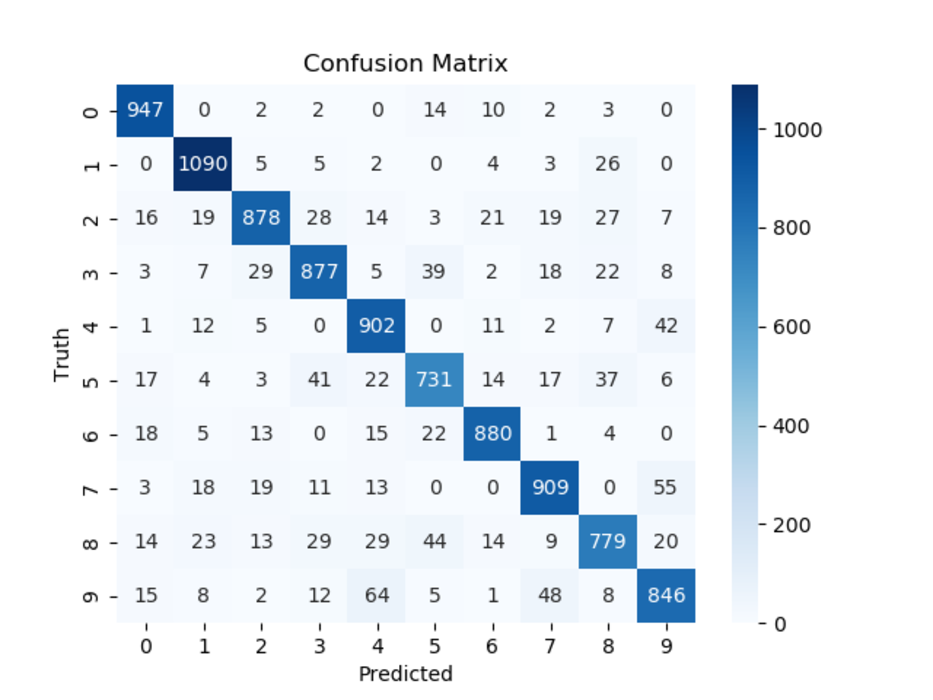
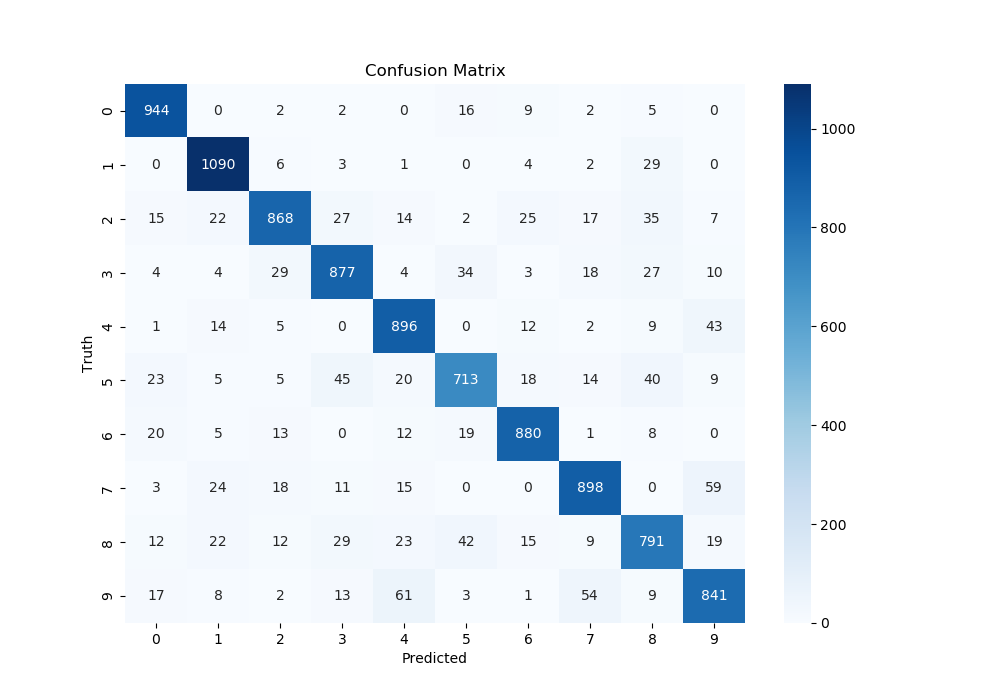
updated reults and code

diff --git a/Code/main.py b/Code/main.py
@@ -13,13 +13,13 @@ from sklearn.discriminant_analysis import LinearDiscriminantAnalysis
 def main():
     parse = argparse.ArgumentParser()
     parse.add_argument(
-        '--Method', default='LG',
+        '--Method', default='LR',
         help='classifiers')
     parse.add_argument(
-        '--DimRed', default='PCA',
+        '--DimRed', default='LDA',
         help='Dimensionality Reduction for SVM and Logistic Regression')
     parse.add_argument(
-        '--Kernel', default='Linear',
+        '--Kernel', default='RBF',
         help='kernel for Kernel SVM')
     args = parse.parse_args()
     method = args.Method
@@ -79,7 +79,7 @@ def main():
         svm = SVM(X_train, train_y, X_test, y_test, kernel)
         svm.svm()
         svm.plot()
-    elif method == "LG":
+    elif method == "LR":
         X_train = X_train.reshape(
             (X_train.shape[0],
              X_train.shape[1] *
@@ -102,7 +102,7 @@ def main():
             lda = LinearDiscriminantAnalysis(n_components=9)
             X_train = lda.fit_transform(X_train, train_y)
             X_test = lda.transform(X_test)
-        LR = LogisticRegression(10, l_r=0.9, epochs=100)
+        LR = LogisticRegression(10, l_r=0.9, epochs=50)
         LR.fit(X_train, train_y)
         training_acc = np.sum(train_y == LR.predict(X_train)) / len(train_y)
         print(f"Training Accuracy : {training_acc:.2f}")
@@ -112,7 +112,7 @@ def main():
         test_acc = np.sum(y_test == test_pred) / len(y_test)
         LR.plot(y_test, test_pred)
     else:
-        print("!!!Please provode valid classifier!!!")
+        sys.exit("!!!Please provode valid classifier!!!")
 
 
 if __name__ == '__main__':

diff --git a/Code/LR.py b/Code/LR.py
@@ -61,30 +61,6 @@ class LogisticRegression():
             test_y : test labels
             test_pred: test predictions
         """
-        # plt.figure(1)
-        # plt.plot(np.arange(1, self.iter + 1), self.loss_l)
-        # plt.title("Training Loss")
-        # plt.xlabel("Epoch")
-        # plt.ylabel("Loss")
-
-        # plt.figure(2)
-        # plt.plot(np.arange(1, len(self.accuracy) + 1), self.accuracy)
-        # plt.ylabel('Accuracy')
-        # plt.xlabel('Epoch')
-
-        # plt.figure(3)
-        # sn.heatmap(
-        #     confusion_matrix(
-        #         test_y,
-        #         test_pred),
-        #     annot=True,
-        #     fmt='d',
-        #     cmap="Blues")
-        # plt.title("Confusion Matrix")
-        # plt.xlabel('Predicted')
-        # plt.ylabel('Truth')
-        # plt.show()
-
         plt.figure(1, figsize=(10, 7))
         sn.heatmap(
             confusion_matrix(

diff --git a/Code/SVM.py b/Code/SVM.py
@@ -1,3 +1,4 @@
+import sys
 import tqdm
 import matplotlib.pyplot as plt
 from sklearn.svm import LinearSVC, SVC
@@ -8,13 +9,15 @@ class SVM:
     """Class for SVM"""
 
     def __init__(self, X_train, y_train, X_test, y_test, kernel) -> None:
-        self.kernel = kernel
         self.X_train = X_train
         self.y_train = y_train
         self.X_test = X_test
         self.y_test = y_test
         self.regularization = [0.25, 0.5, 0.75, 1.0]
         self.accuracy_list = []
+        if kernel != "Linear" and kernel != "Polynomial" and kernel != "RBF":
+           sys.exit("!!!Please provide valid kernal!!!")
+        self.kernel = kernel
 
     def svm(self):
         print("Kernel: ", self.kernel)

diff --git a/README.md b/README.md
@@ -35,11 +35,10 @@ Accuracy | Confusion Matrix
 
 ### Logistic Regression
 
-PCA | LDA 
-:-:|:-:|
-![env](./Results/lr_pca_acc.png) | ![env](./Results/lr_lda_acc.png)
-![env](./Results/lr_pca_loss.png) | ![env](./Results/lr_lda_loss.png) 
-![env](./Results/lr_pca_cm.png) | ![env](./Results/lr_lda_cm.png) 
+Dim Red. | Accuracy | Confusion
+:-:|:-:|:-:
+| PCA |![env](./Results/lr_acc_loss_pca.png) | ![env](./Results/lr_pca_cm.png) 
+| LDA |![env](./Results/lr_acc_loss_lda.png) | ![env](./Results/lr_lda_cm.png) 
 
 ### SVM
 
